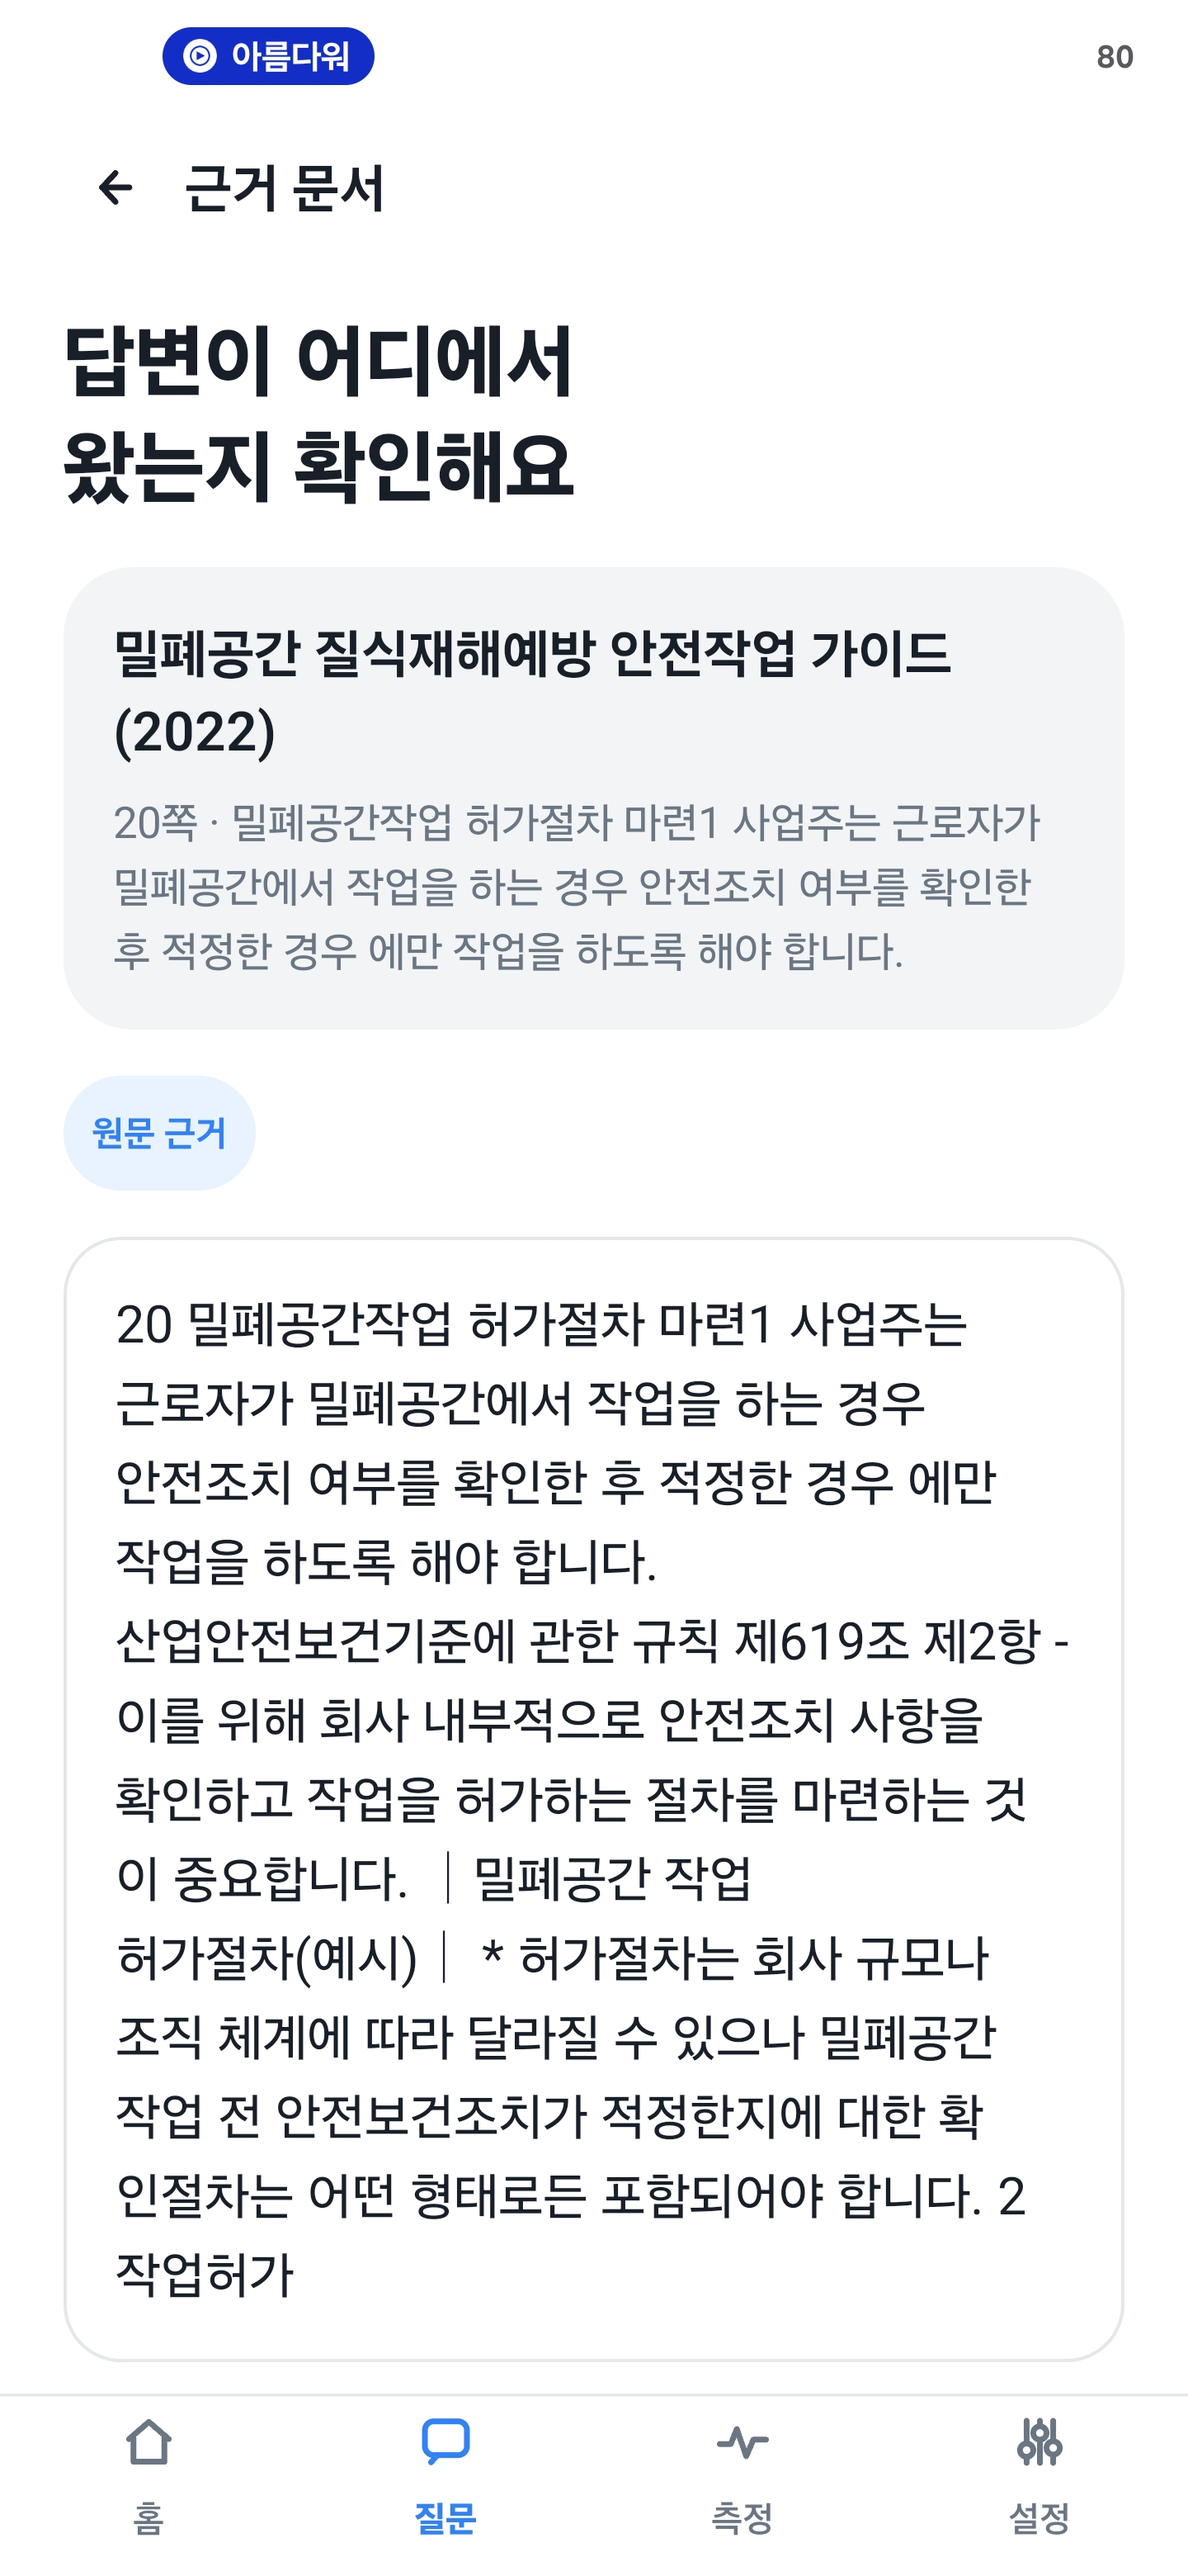
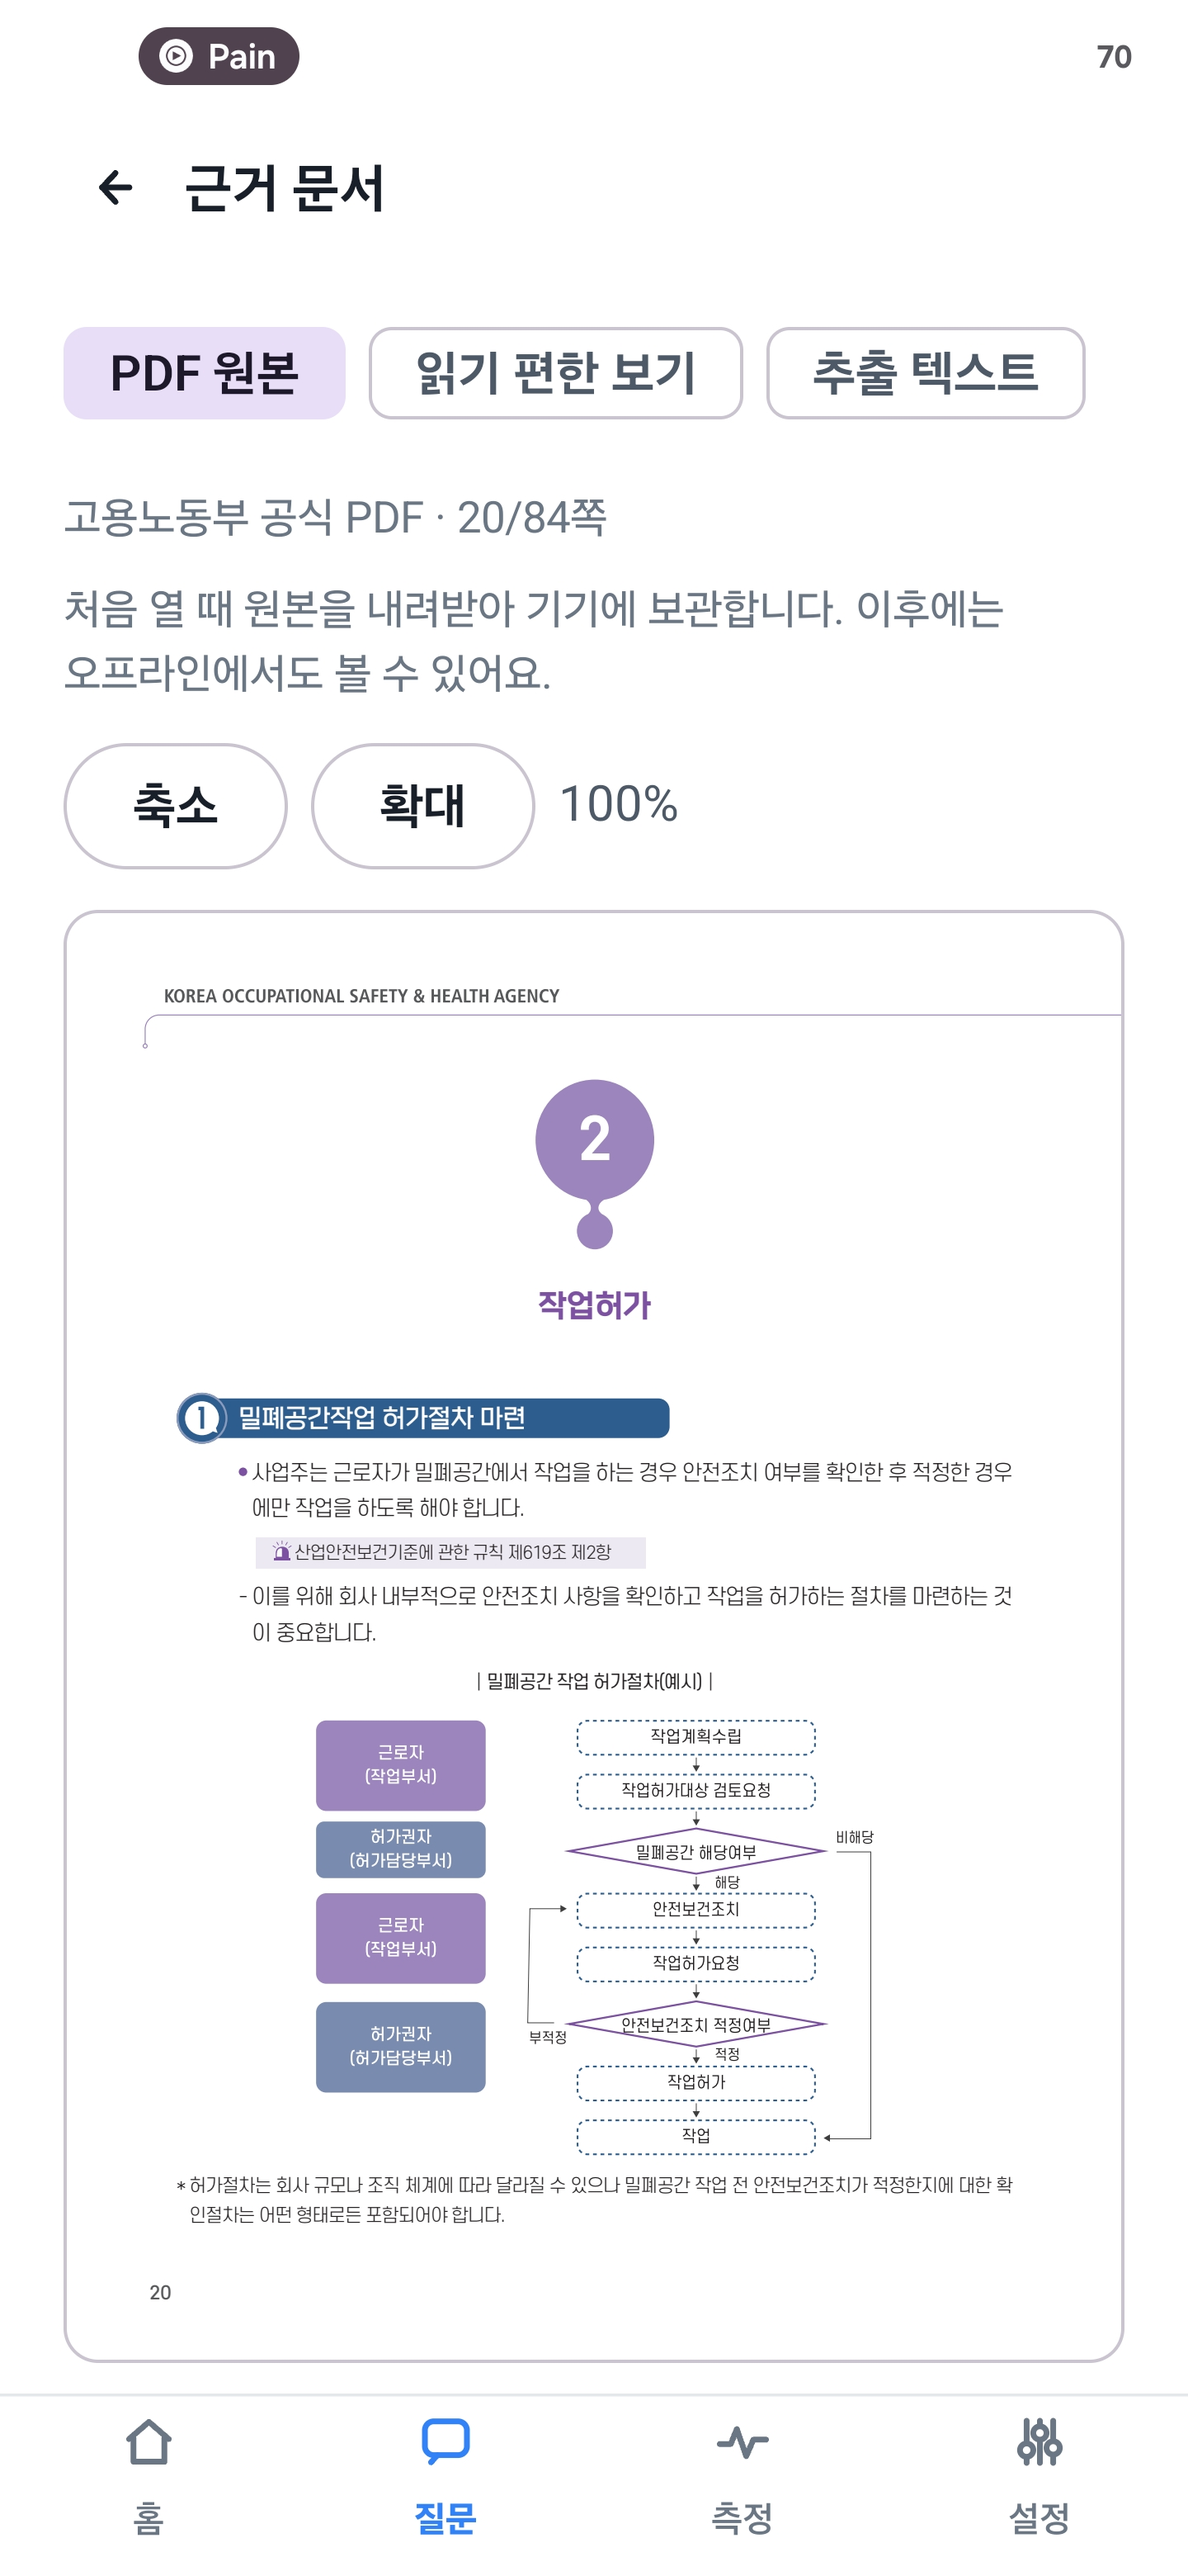
Update source document screenshots in README

diff --git a/README.md b/README.md
@@ -31,7 +31,7 @@
 
 ## 화면으로 보는 시안
 
-아래는 보내주신 실제 화면 캡처 10장입니다. 이미지를 누르면 원본 크기로 볼 수 있습니다. 캡처 상단의 다른 앱 배지와 숫자는 시연 단말에 함께 표시된 요소로, O₂ Field Guard의 기능 설명 대상이 아닙니다. 화면의 수치·모델 상태·기록 개수는 **촬영 당시 단말 상태**입니다.
+아래는 보내주신 실제 화면 캡처 12장입니다. 이미지를 누르면 원본 크기로 볼 수 있습니다. 캡처 상단의 다른 앱 배지와 숫자는 시연 단말에 함께 표시된 요소로, O₂ Field Guard의 기능 설명 대상이 아닙니다. 화면의 수치·모델 상태·기록 개수는 **촬영 당시 단말 상태**입니다.
 
 ### 1. 홈에서 시작해 질문하기
 
@@ -42,10 +42,15 @@
 
 ### 2. 답변의 근거 확인하기
 
-| 질문과 답변 | 근거 문서 원문 |
+| 질문과 답변 | PDF 원본 |
 | --- | --- |
-| <a href="docs/screenshots/question-answer.png"><img src="docs/screenshots/question-answer.png" alt="작업허가 질문에 대한 문서 기반 답변" width="290"></a> | <a href="docs/screenshots/source-document.png"><img src="docs/screenshots/source-document.png" alt="안전작업 가이드의 문서명, 쪽수와 원문 내용" width="290"></a> |
-| 질문, 답변, 상단 가스 상태가 한 화면에 나타납니다. 답변 아래 근거를 열 수 있습니다. | 문서 제목과 쪽수, 검색된 원문을 표시합니다. 담당자가 실제 문장과 답변을 대조할 수 있습니다. |
+| <a href="docs/screenshots/question-answer.png"><img src="docs/screenshots/question-answer.png" alt="작업허가 질문에 대한 문서 기반 답변" width="290"></a> | <a href="docs/screenshots/source-document.png"><img src="docs/screenshots/source-document.png" alt="작업허가 근거를 실제 PDF 20쪽의 그림과 함께 표시한 화면" width="290"></a> |
+| 질문과 답변 아래에서 근거를 열 수 있습니다. | 공식 PDF의 해당 쪽을 그림·표까지 원래 배치로 확인하고 확대할 수 있습니다. |
+
+| 읽기 편한 보기 | 추출 텍스트 |
+| --- | --- |
+| <a href="docs/screenshots/source-document-readable.png"><img src="docs/screenshots/source-document-readable.png" alt="근거 문장을 단락과 목록으로 구분한 읽기 편한 보기" width="290"></a> | <a href="docs/screenshots/source-document-extracted.png"><img src="docs/screenshots/source-document-extracted.png" alt="검색과 답변에 사용된 PDF 추출 텍스트 보기" width="290"></a> |
+| 같은 근거를 단락과 목록으로 나누어 읽기 쉽게 표시합니다. | 검색과 답변에 실제 사용한 추출 텍스트를 확인합니다. 원본 PDF와 대조할 수 있습니다. |
 
 ### 3. 기록과 내 데이터 확인하기
 
